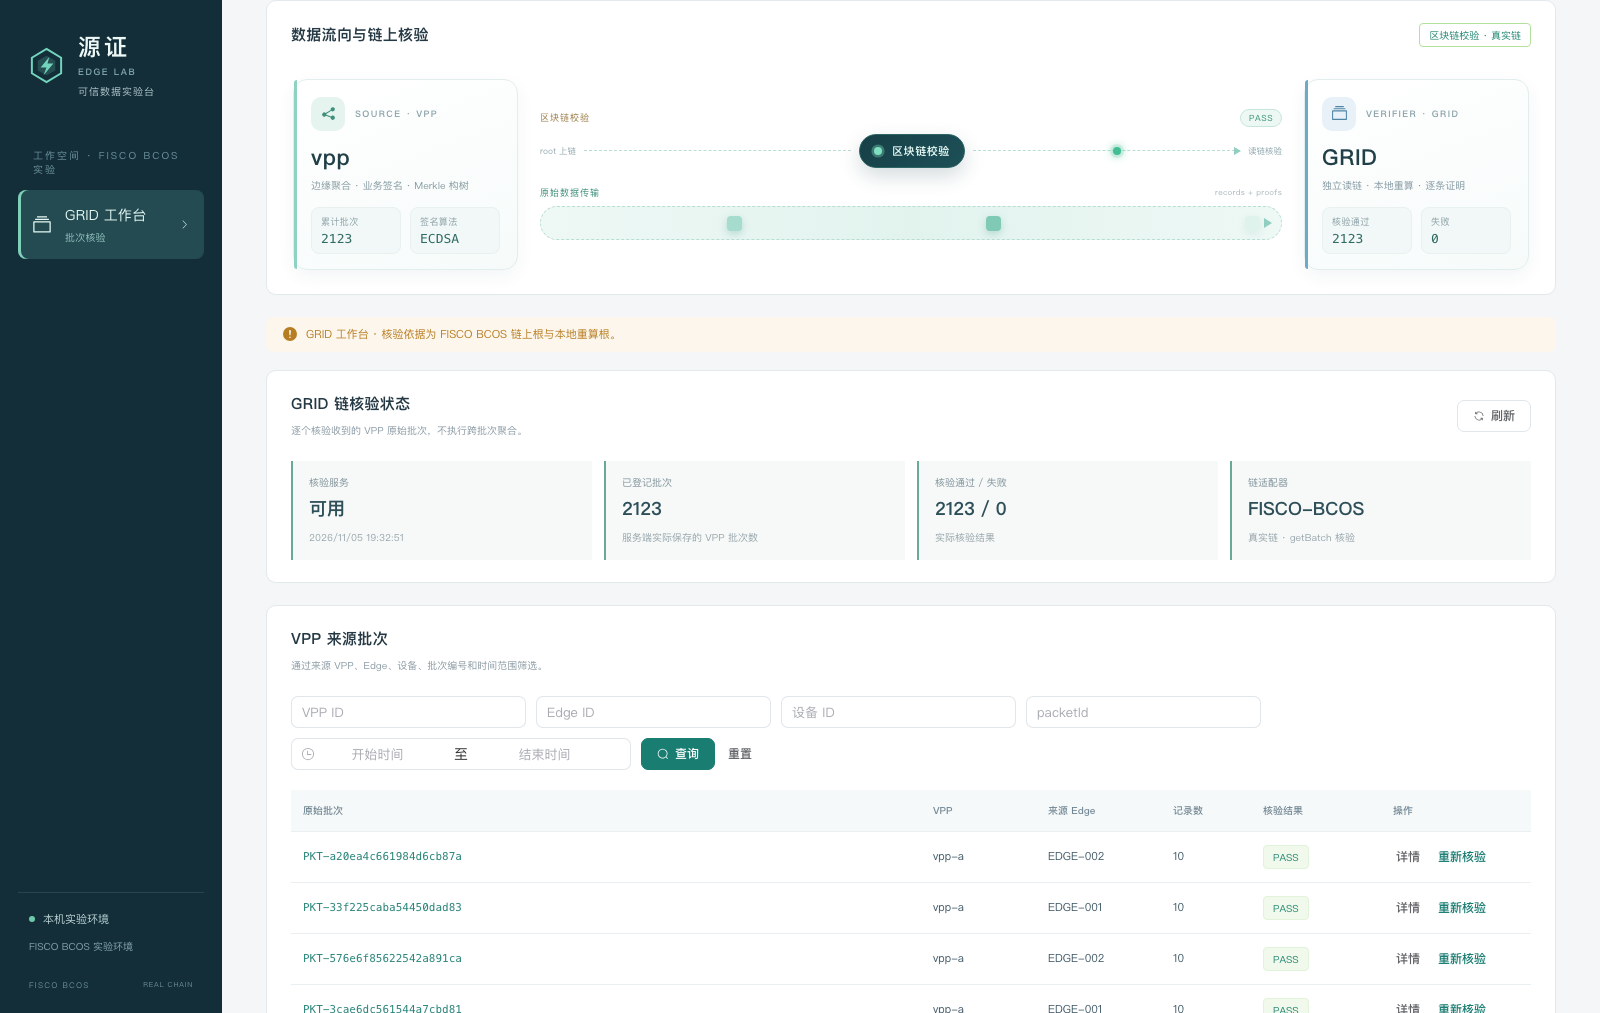
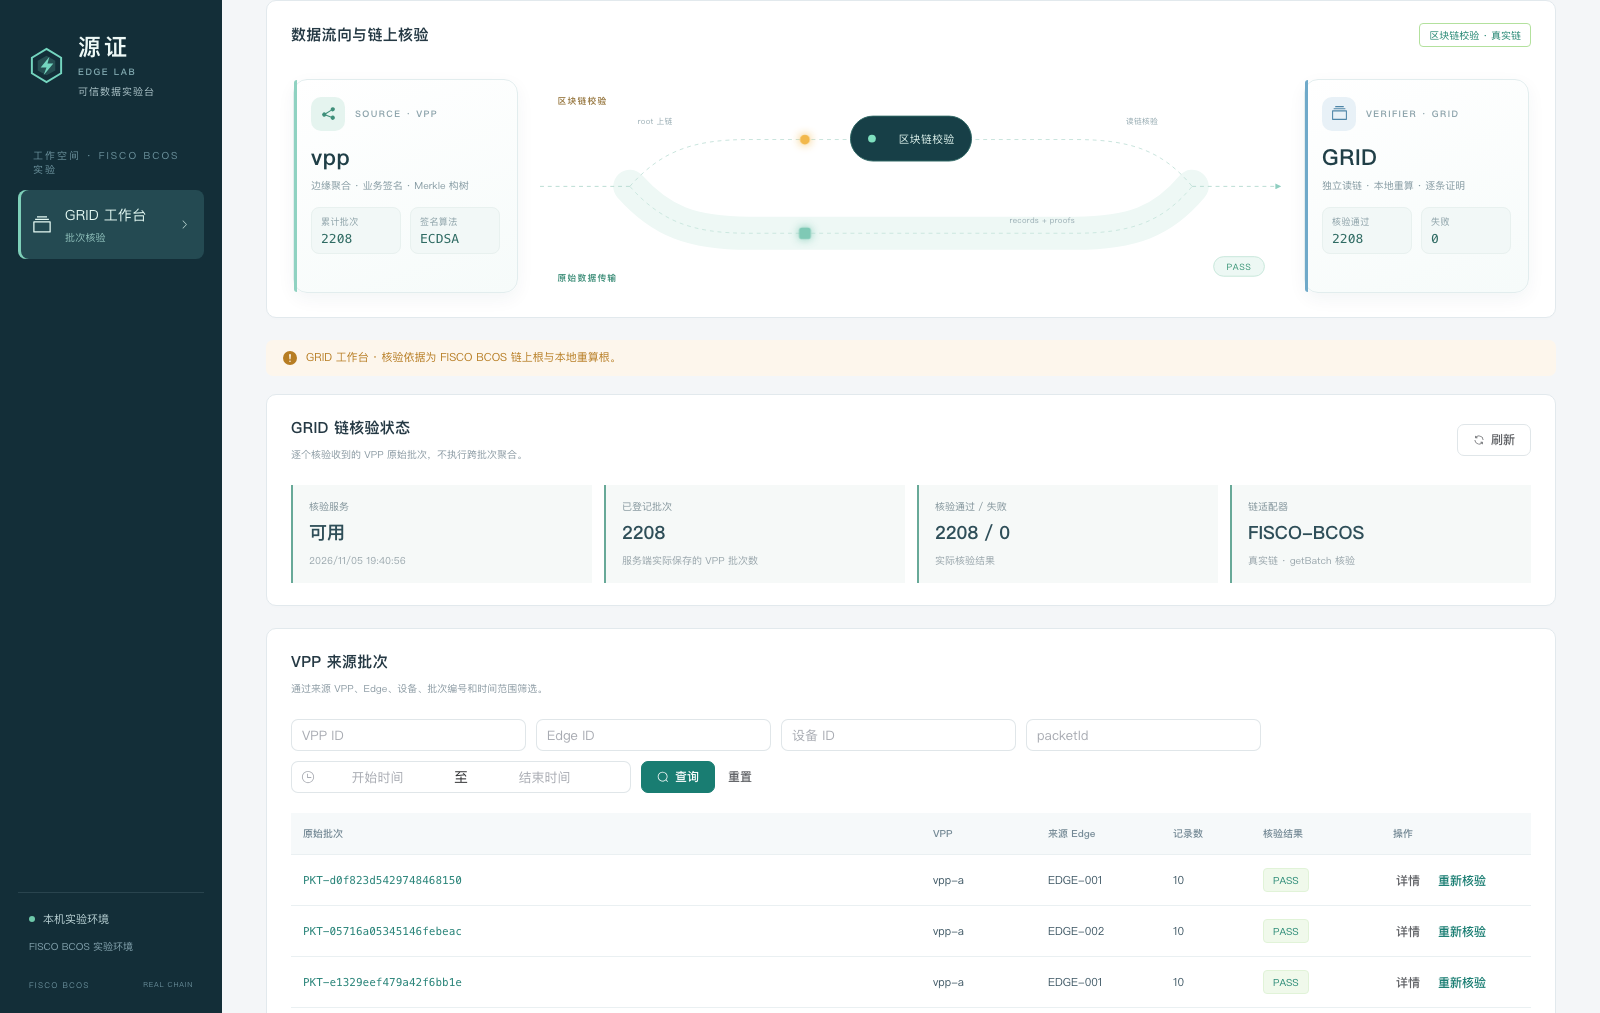
feat(console): 流向图改为单信号分叉—并行—汇合动画
- SVG 路径：VPP 主干 → 分叉 → 上黄下绿两路 → 汇合 → GRID
- 上通道黄色小点经区块链校验节点并触发脉冲；下通道浅绿数据方块
- 汇合后绿色信号进入 GRID，PASS 高亮；6s 循环
- 文档与截图同步

diff --git a/console-prototype/frontend/src/App.vue b/console-prototype/frontend/src/App.vue
@@ -390,22 +390,36 @@ onUnmounted(() => { clearInterval(poll); clearInterval(tick); window.removeEvent
                 <dl class="flow-stats"><div><dt>累计批次</dt><dd>{{ gridOverview?.batchCount ?? '—' }}</dd></div><div><dt>签名算法</dt><dd>ECDSA</dd></div></dl>
               </article>
               <div class="flow-core">
-                <div class="flow-lane">
-                  <div class="flow-lane-head"><span>区块链校验</span><span class="lane-pass">PASS</span></div>
-                  <div class="chain-lane-body">
-                    <span class="lane-tag">root 上链</span>
-                    <span class="lane-line"></span>
-                    <div class="flow-chain"><span class="flow-chain-dot"></span><b>区块链校验</b></div>
-                    <span class="lane-line with-arrow"></span>
-                    <span class="lane-tag">读链核验</span>
-                    <span class="chain-signal root"></span>
-                    <span class="chain-signal verify"></span>
-                  </div>
-                </div>
-                <div class="flow-lane">
-                  <div class="flow-lane-head"><span>原始数据传输</span><em>records + proofs</em></div>
-                  <div class="flow-track"><i class="flow-packet p1"></i><i class="flow-packet p2"></i><i class="flow-packet p3"></i></div>
-                </div>
+                <svg class="flow-svg" viewBox="0 0 760 220" preserveAspectRatio="xMidYMid meet" aria-hidden="true">
+                  <defs>
+                    <path id="flowTrunk" d="M 0 110 H 92" />
+                    <path id="flowUpper" d="M 92 110 C 124 74, 156 62, 214 62 H 548 C 606 62, 638 74, 668 110" />
+                    <path id="flowLower" d="M 92 110 C 124 146, 156 158, 214 158 H 548 C 606 158, 638 146, 668 110" />
+                    <path id="flowMerge" d="M 668 110 H 758" />
+                    <marker id="flowArrow" viewBox="0 0 10 10" refX="8" refY="5" markerWidth="6" markerHeight="6" orient="auto-start-reverse"><path d="M 0 0 L 10 5 L 0 10 z" fill="#8fcec0" /></marker>
+                  </defs>
+                  <path d="M 92 110 C 124 146, 156 158, 214 158 H 548 C 606 158, 638 146, 668 110" fill="none" stroke="#eef8f5" stroke-width="34" stroke-linecap="round" />
+                  <path d="M 92 110 C 124 146, 156 158, 214 158 H 548 C 606 158, 638 146, 668 110" fill="none" stroke="#b7ded3" stroke-width="1" stroke-dasharray="4 4" opacity=".65" />
+                  <path d="M 92 110 C 124 74, 156 62, 214 62 H 548 C 606 62, 638 74, 668 110" fill="none" stroke="#b9dcd3" stroke-width="1" stroke-dasharray="4 4" opacity=".8" />
+                  <path d="M 0 110 H 92" fill="none" stroke="#b9dcd3" stroke-width="1" stroke-dasharray="4 4" />
+                  <path d="M 668 110 H 758" fill="none" stroke="#b9dcd3" stroke-width="1" stroke-dasharray="4 4" marker-end="url(#flowArrow)" />
+                  <text x="18" y="26" class="svg-label amber">区块链校验</text>
+                  <text x="18" y="207" class="svg-label green">原始数据传输</text>
+                  <text x="100" y="46" class="svg-sub">root 上链</text>
+                  <text x="600" y="46" class="svg-sub">读链核验</text>
+                  <text x="548" y="148" class="svg-sub" text-anchor="end">records + proofs</text>
+                  <g class="svg-pass"><rect x="690" y="182" width="52" height="20" rx="10" fill="#edf8f4" stroke="#c6e6da" /><text x="716" y="196" class="svg-pass-text">PASS</text></g>
+                  <g class="svg-chain">
+                    <rect x="318" y="38" width="124" height="46" rx="23" fill="#173f47" stroke="#2d6663" />
+                    <circle cx="340" cy="61" r="4" fill="#7fe0bf" />
+                    <text x="396" y="66" text-anchor="middle" fill="#e3f7f1" font-size="11" letter-spacing=".5">区块链校验</text>
+                  </g>
+                  <circle r="4.5" class="sig sig-trunk"><animateMotion dur="6s" repeatCount="indefinite" calcMode="linear" keyPoints="0;1;1" keyTimes="0;0.12;1"><mpath href="#flowTrunk" /></animateMotion></circle>
+                  <circle r="5" class="sig sig-upper"><animateMotion dur="6s" repeatCount="indefinite" calcMode="linear" keyPoints="0;0;1;1" keyTimes="0;0.12;0.70;1"><mpath href="#flowUpper" /></animateMotion></circle>
+                  <rect x="-6" y="-6" width="12" height="12" rx="3" class="sig sig-lower"><animateMotion dur="6s" repeatCount="indefinite" calcMode="linear" keyPoints="0;0;1;1" keyTimes="0;0.12;0.70;1"><mpath href="#flowLower" /></animateMotion></rect>
+                  <circle r="4.5" class="sig sig-merge"><animateMotion dur="6s" repeatCount="indefinite" calcMode="linear" keyPoints="0;0;1;1" keyTimes="0;0.70;0.84;1"><mpath href="#flowMerge" /></animateMotion></circle>
+                  <circle cx="668" cy="110" r="7" class="merge-flash" />
+                </svg>
               </div>
               <article class="flow-node flow-grid">
                 <div class="flow-node-top"><span class="flow-node-icon"><el-icon><Files /></el-icon></span><span class="flow-kicker">VERIFIER · GRID</span></div>

diff --git a/console-prototype/frontend/src/workbench.css b/console-prototype/frontend/src/workbench.css
@@ -303,3 +303,26 @@
 .flow-packet.p3 { animation-delay: 3.46s; }
 .flow-lane:first-child .flow-lane-head > span:first-child { color: #9a7b45; }
 .flow-lane:last-child .flow-lane-head > span:first-child { color: #3f8f7a; }
+
+/* 单信号分叉 → 上下并行 → 汇合 → GRID */
+.flow-core { display: flex; align-items: center; justify-content: center; }
+.flow-svg { width: 100%; height: auto; display: block; overflow: visible; }
+.svg-label { font-size: 9px; font-weight: 600; letter-spacing: 1.2px; }
+.svg-label.amber { fill: #9a7b45; }
+.svg-label.green { fill: #3f8f7a; }
+.svg-sub { font-size: 8px; fill: #93a8af; letter-spacing: .3px; }
+.svg-pass-text { font-size: 9px; fill: #2f8f6f; text-anchor: middle; letter-spacing: .6px; }
+.svg-pass rect { animation: svg-pass 6s linear infinite; }
+@keyframes svg-pass { 0%, 70% { fill: #edf8f4; } 76% { fill: #c9efdf; } 86%, 100% { fill: #edf8f4; } }
+.svg-chain { animation: svg-chain 6s ease-in-out infinite; transform-box: fill-box; transform-origin: center; }
+@keyframes svg-chain { 0%, 34% { filter: none; } 42% { filter: drop-shadow(0 0 9px #7fe0bfaa); } 52%, 100% { filter: none; } }
+.sig { filter: drop-shadow(0 0 5px currentColor); }
+.sig-trunk { fill: #9fd9c8; color: #9fd9c8; animation: sig-trunk 6s linear infinite; }
+@keyframes sig-trunk { 0% { opacity: 0; } 2% { opacity: 1; } 11% { opacity: 1; } 12%, 100% { opacity: 0; } }
+.sig-upper { fill: #f2b84b; color: #f2b84b; animation: sig-lane 6s linear infinite; }
+.sig-lower { fill: #7fc9b5; color: #7fc9b5; animation: sig-lane 6s linear infinite; }
+@keyframes sig-lane { 0%, 11% { opacity: 0; } 13% { opacity: 1; } 67% { opacity: 1; } 69%, 100% { opacity: 0; } }
+.sig-merge { fill: #43bd93; color: #43bd93; animation: sig-merge 6s linear infinite; }
+@keyframes sig-merge { 0%, 70% { opacity: 0; } 72% { opacity: 1; } 83% { opacity: 1; } 84%, 100% { opacity: 0; } }
+.merge-flash { fill: #7fe0bf; opacity: 0; transform-box: fill-box; transform-origin: center; animation: merge-flash 6s linear infinite; }
+@keyframes merge-flash { 0%, 68% { opacity: 0; transform: scale(.6); } 72% { opacity: .9; transform: scale(1.4); } 78%, 100% { opacity: 0; transform: scale(1.4); } }

diff --git a/docs/08-FISCO控制台.md b/docs/08-FISCO控制台.md
@@ -63,11 +63,12 @@ cd ../.. && ./scripts/start_services.sh                     # 启动 8 个服务
 
 顶部是两条通道的示意流向图：
 
-- **上通道「区块链校验」**：root 上链 → 区块链校验 → 读链核验，右侧 PASS；
-  琥珀色 root 信号滑向链节点、链节点脉冲，随后绿色核验信号滑向 PASS，PASS 同步高亮；
-- **下通道「原始数据传输」**：批次包 / 记录 / proofs 从 VPP 流向 GRID，带流动动画。
+动画按“单信号分叉 → 并行 → 汇合”编排（6s 循环）：
 
-两条通道共用 5.2s 周期：下方数据包持续右移，上方按“root 上链 → 链校验 → 读链核验 → PASS”节拍运动。
+- 起点只有一个浅绿信号，从 VPP 侧沿主干出发；
+- 到分叉点后分成两路：**上通道变成黄色小点**（区块链校验，经过链节点并触发脉冲），
+  **下通道保持浅绿数据方块**（records + proofs）；
+- 两路在右侧汇合点合并，再发出一个绿色信号进入 GRID，PASS 同步高亮。
 
 左侧 VPP、右侧 GRID；该图仅用于展示链路关系，不参与核验逻辑，数字沿用汇总。
 
